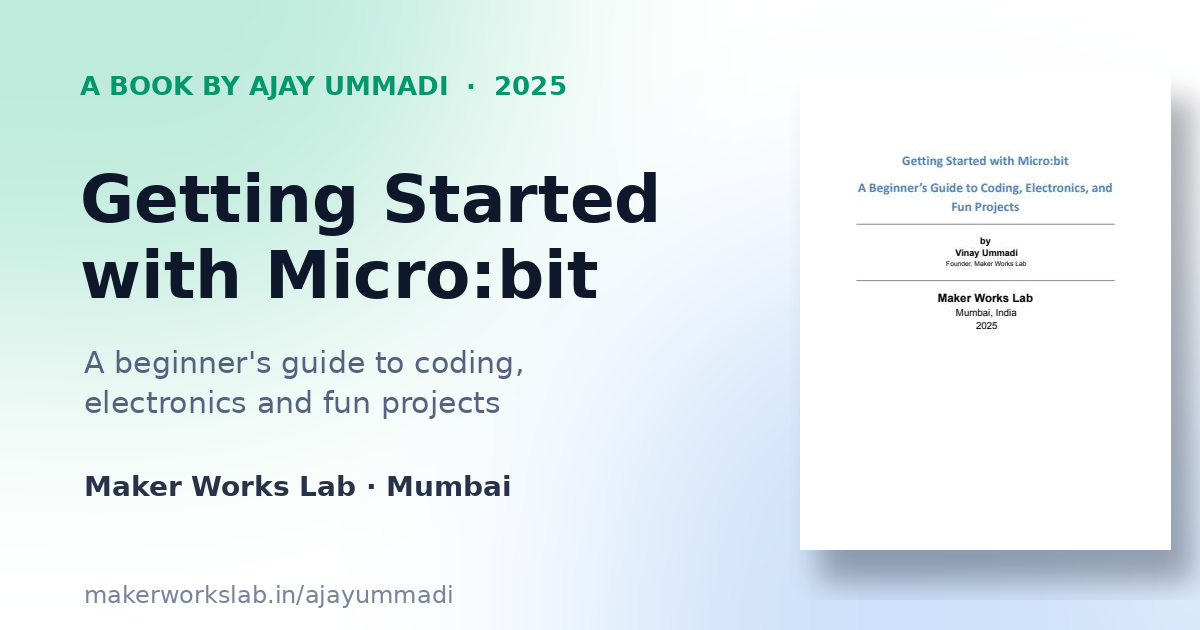
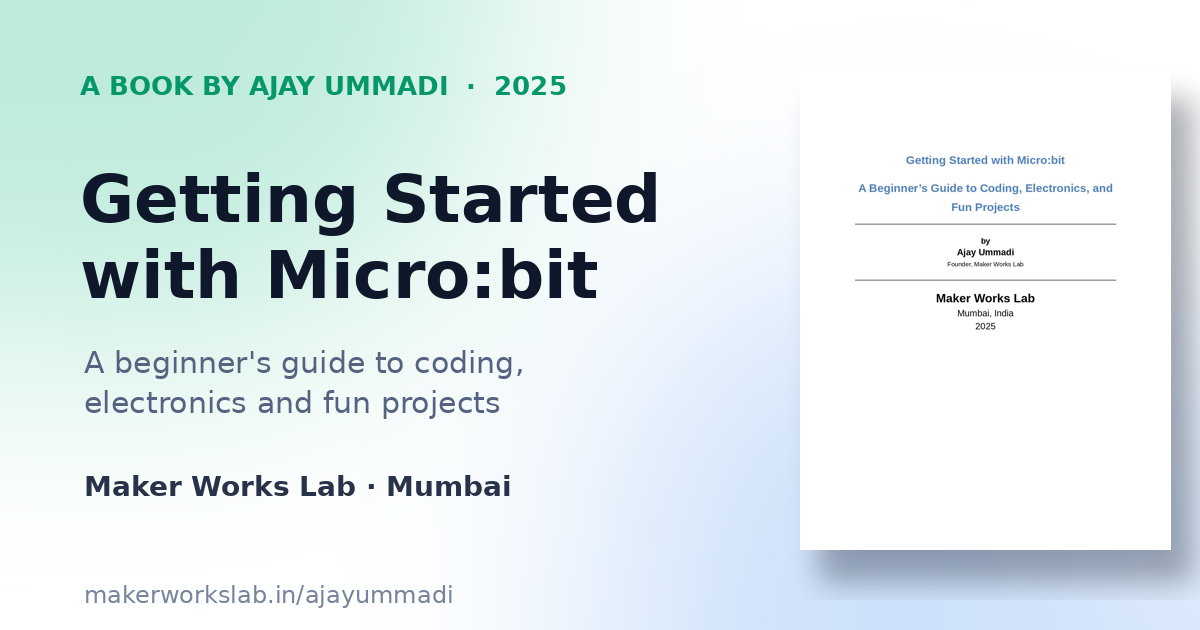
Use corrected book cover with author name

Changed region(s): [[0.7092, 0.2413, 0.925, 0.3317], [0.7708, 0.4524, 0.8633, 0.5429], [0.7708, 0.3921, 0.8633, 0.4222]]

diff --git a/index.html b/index.html
@@ -319,7 +319,7 @@
 
 <section id="book"><div class="wrap">
 <p class="eyebrow rv">Author</p><h2 class="rv">I wrote a book</h2>
-<div class="card rv bk-card"><a href="projects/microbit-beginners-guide/" class="bk-thumb"><img src="projects/microbit-beginners-guide/cover.jpg" width="371" height="480" alt="Cover of Getting Started with Micro:bit by Ajay Ummadi" loading="lazy"></a>
+<div class="card rv bk-card"><a href="projects/microbit-beginners-guide/" class="bk-thumb"><img src="projects/microbit-beginners-guide/cover.jpg" width="1113" height="1440" alt="Cover of Getting Started with Micro:bit by Ajay Ummadi" loading="lazy"></a>
 <div><h3>Getting Started with Micro:bit</h3><p class="muted" style="margin:4px 0 14px">A Beginner's Guide to Coding, Electronics, and Fun Projects · Maker Works Lab, Mumbai · 2025</p>
 <div class="btns"><a class="btn primary" href="projects/microbit-beginners-guide/">About the book</a><a class="btn" href="https://online.anyflip.com/aogwo/mjyr/index.html" target="_blank" rel="noopener">Read online →</a></div></div></div>
 </div></section>

diff --git a/projects/microbit-beginners-guide/index.html b/projects/microbit-beginners-guide/index.html
@@ -166,7 +166,7 @@
 <div class="chips big rv" style="margin:0 0 24px"><span class="chip">Beginner friendly</span><span class="chip">Coding</span><span class="chip">Electronics</span><span class="chip">Fun projects</span></div>
 <div class="btns rv"><a class="btn primary" href="https://online.anyflip.com/aogwo/mjyr/index.html" target="_blank" rel="noopener">Read the book online →</a><a class="btn" href="https://anyflip.com/bookcase/hrxwz/" target="_blank" rel="noopener">AnyFlip bookcase</a></div>
 </div>
-<figure class="rv bk-cover"><img src="cover.jpg" width="371" height="480" alt="Cover of Getting Started with Micro:bit, a beginner's guide to coding, electronics and fun projects, by Ajay Ummadi, Maker Works Lab, Mumbai, 2025" fetchpriority="high"></figure>
+<figure class="rv bk-cover"><img src="cover.jpg" width="1113" height="1440" alt="Cover of Getting Started with Micro:bit, a beginner's guide to coding, electronics and fun projects, by Ajay Ummadi, Maker Works Lab, Mumbai, 2025" fetchpriority="high"></figure>
 </div></section>
 
 <section><div class="wrap">
